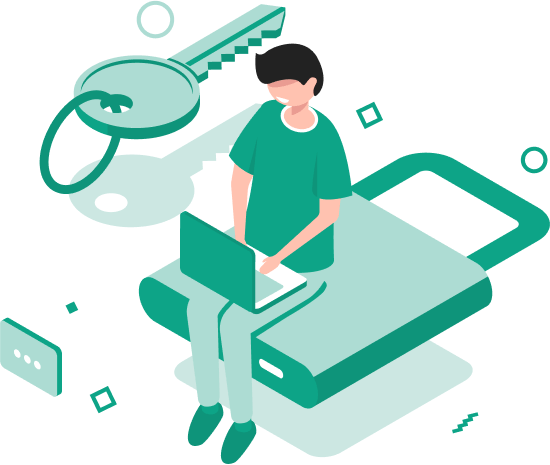
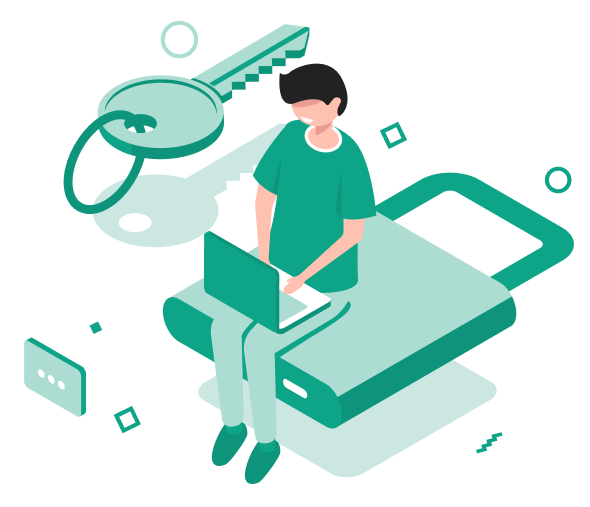
Sửa trang login

diff --git a/public/assets/client/css/style.css b/public/assets/client/css/style.css
@@ -35149,10 +35149,6 @@ body.rtl .menu-label {
     height: 100%;
     top: 0;
     left: 0;
-    background-image: url(../images/inner-page/log-in-bg.png);
-    background-position: center;
-    background-repeat: no-repeat;
-    background-size: cover;
     z-index: -1;
 }
 .log-in-section.otp-section {

diff --git a/resources/views/clients/auth/login.blade.php b/resources/views/clients/auth/login.blade.php
@@ -38,7 +38,7 @@
         <!-- Breadcrumb Section End -->
 
         <!-- Đăng nhập section start -->
-        <section class="log-in-section background-image-2 section-b-space">
+        <section class="log-in-section section-b-space">
             <div class="container-fluid-lg w-100">
                 <div class="row">
                     <div class="col-xxl-6 col-xl-5 col-lg-6 d-lg-block d-none ms-auto">

diff --git a/resources/views/admins/auth/editPass.blade.php b/resources/views/admins/auth/editPass.blade.php
@@ -87,7 +87,7 @@
     <!-- Breadcrumb Section End -->
 
     <!-- log in section start -->
-    <section class="log-in-section background-image-2 section-b-space">
+    <section class="log-in-section section-b-space">
         <div class="container-fluid-lg w-100">
             <div class="row">
                 <div class="col-xxl-6 col-xl-5 col-lg-6 d-lg-block d-none ms-auto">

diff --git a/resources/views/admins/auth/reset_passToken.blade.php b/resources/views/admins/auth/reset_passToken.blade.php
@@ -87,7 +87,7 @@
     <!-- Breadcrumb Section End -->
 
     <!-- log in section start -->
-    <section class="log-in-section background-image-2 section-b-space">
+    <section class="log-in-section section-b-space">
         <div class="container-fluid-lg w-100">
             <div class="row">
                 <div class="col-xxl-6 col-xl-5 col-lg-6 d-lg-block d-none ms-auto">

diff --git a/resources/views/clients/auth/editPass.blade.php b/resources/views/clients/auth/editPass.blade.php
@@ -87,7 +87,7 @@
     <!-- Breadcrumb Section End -->
 
     <!-- log in section start -->
-    <section class="log-in-section background-image-2 section-b-space">
+    <section class="log-in-section section-b-space">
         <div class="container-fluid-lg w-100">
             <div class="row">
                 <div class="col-xxl-6 col-xl-5 col-lg-6 d-lg-block d-none ms-auto">

diff --git a/resources/views/clients/auth/reset_passToken.blade.php b/resources/views/clients/auth/reset_passToken.blade.php
@@ -87,7 +87,7 @@
     <!-- Breadcrumb Section End -->
 
     <!-- log in section start -->
-    <section class="log-in-section background-image-2 section-b-space">
+    <section class="log-in-section section-b-space">
         <div class="container-fluid-lg w-100">
             <div class="row">
                 <div class="col-xxl-6 col-xl-5 col-lg-6 d-lg-block d-none ms-auto">

diff --git a/resources/views/admins/auth/forgetPass.blade.php b/resources/views/admins/auth/forgetPass.blade.php
@@ -48,7 +48,7 @@
 
     <body>
         <!-- log in section start -->
-        <section class="log-in-section background-image-2 section-b-space">
+        <section class="log-in-section section-b-space">
             <div class="container-fluid-lg w-100">
                 <div class="row">
                     <div class="col-xxl-6 col-xl-5 col-lg-6 d-lg-block d-none ms-auto">

diff --git a/resources/views/admins/auth/login.blade.php b/resources/views/admins/auth/login.blade.php
@@ -41,7 +41,7 @@
         <span></span>
         <span></span>
     </div>
-    <section class="log-in-section background-image-2 section-b-space">
+    <section class="log-in-section section-b-space">
         <div class="container-fluid-lg w-100">
             <div class="row">
                 <div class="col-xxl-6 col-xl-5 col-lg-6 d-lg-block d-none ms-auto">
